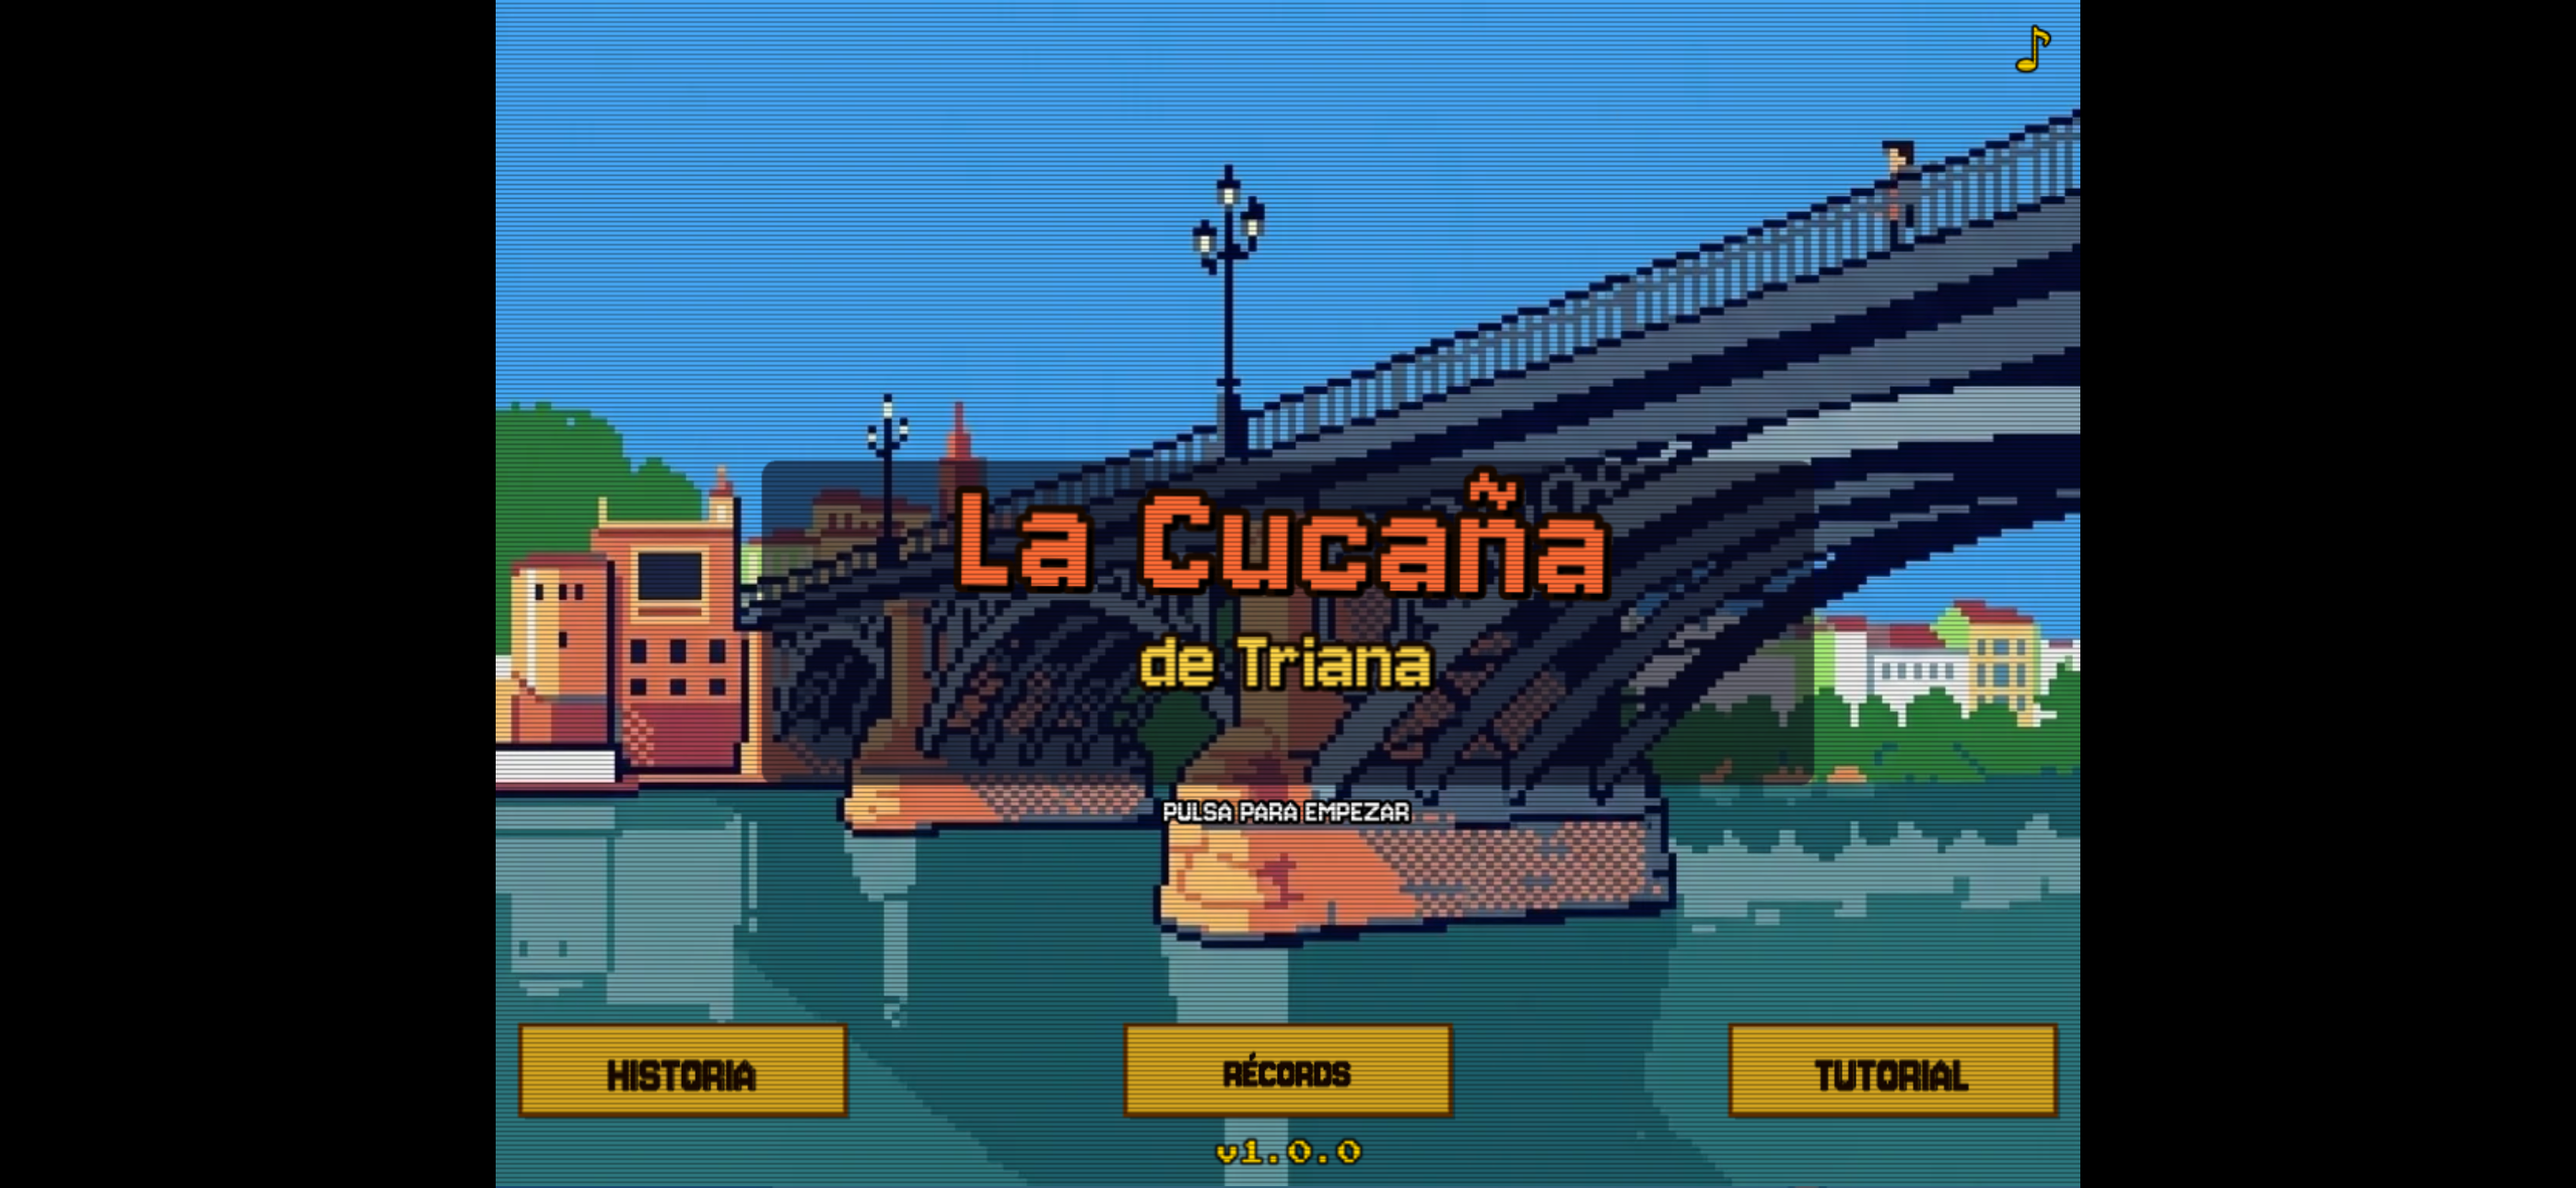
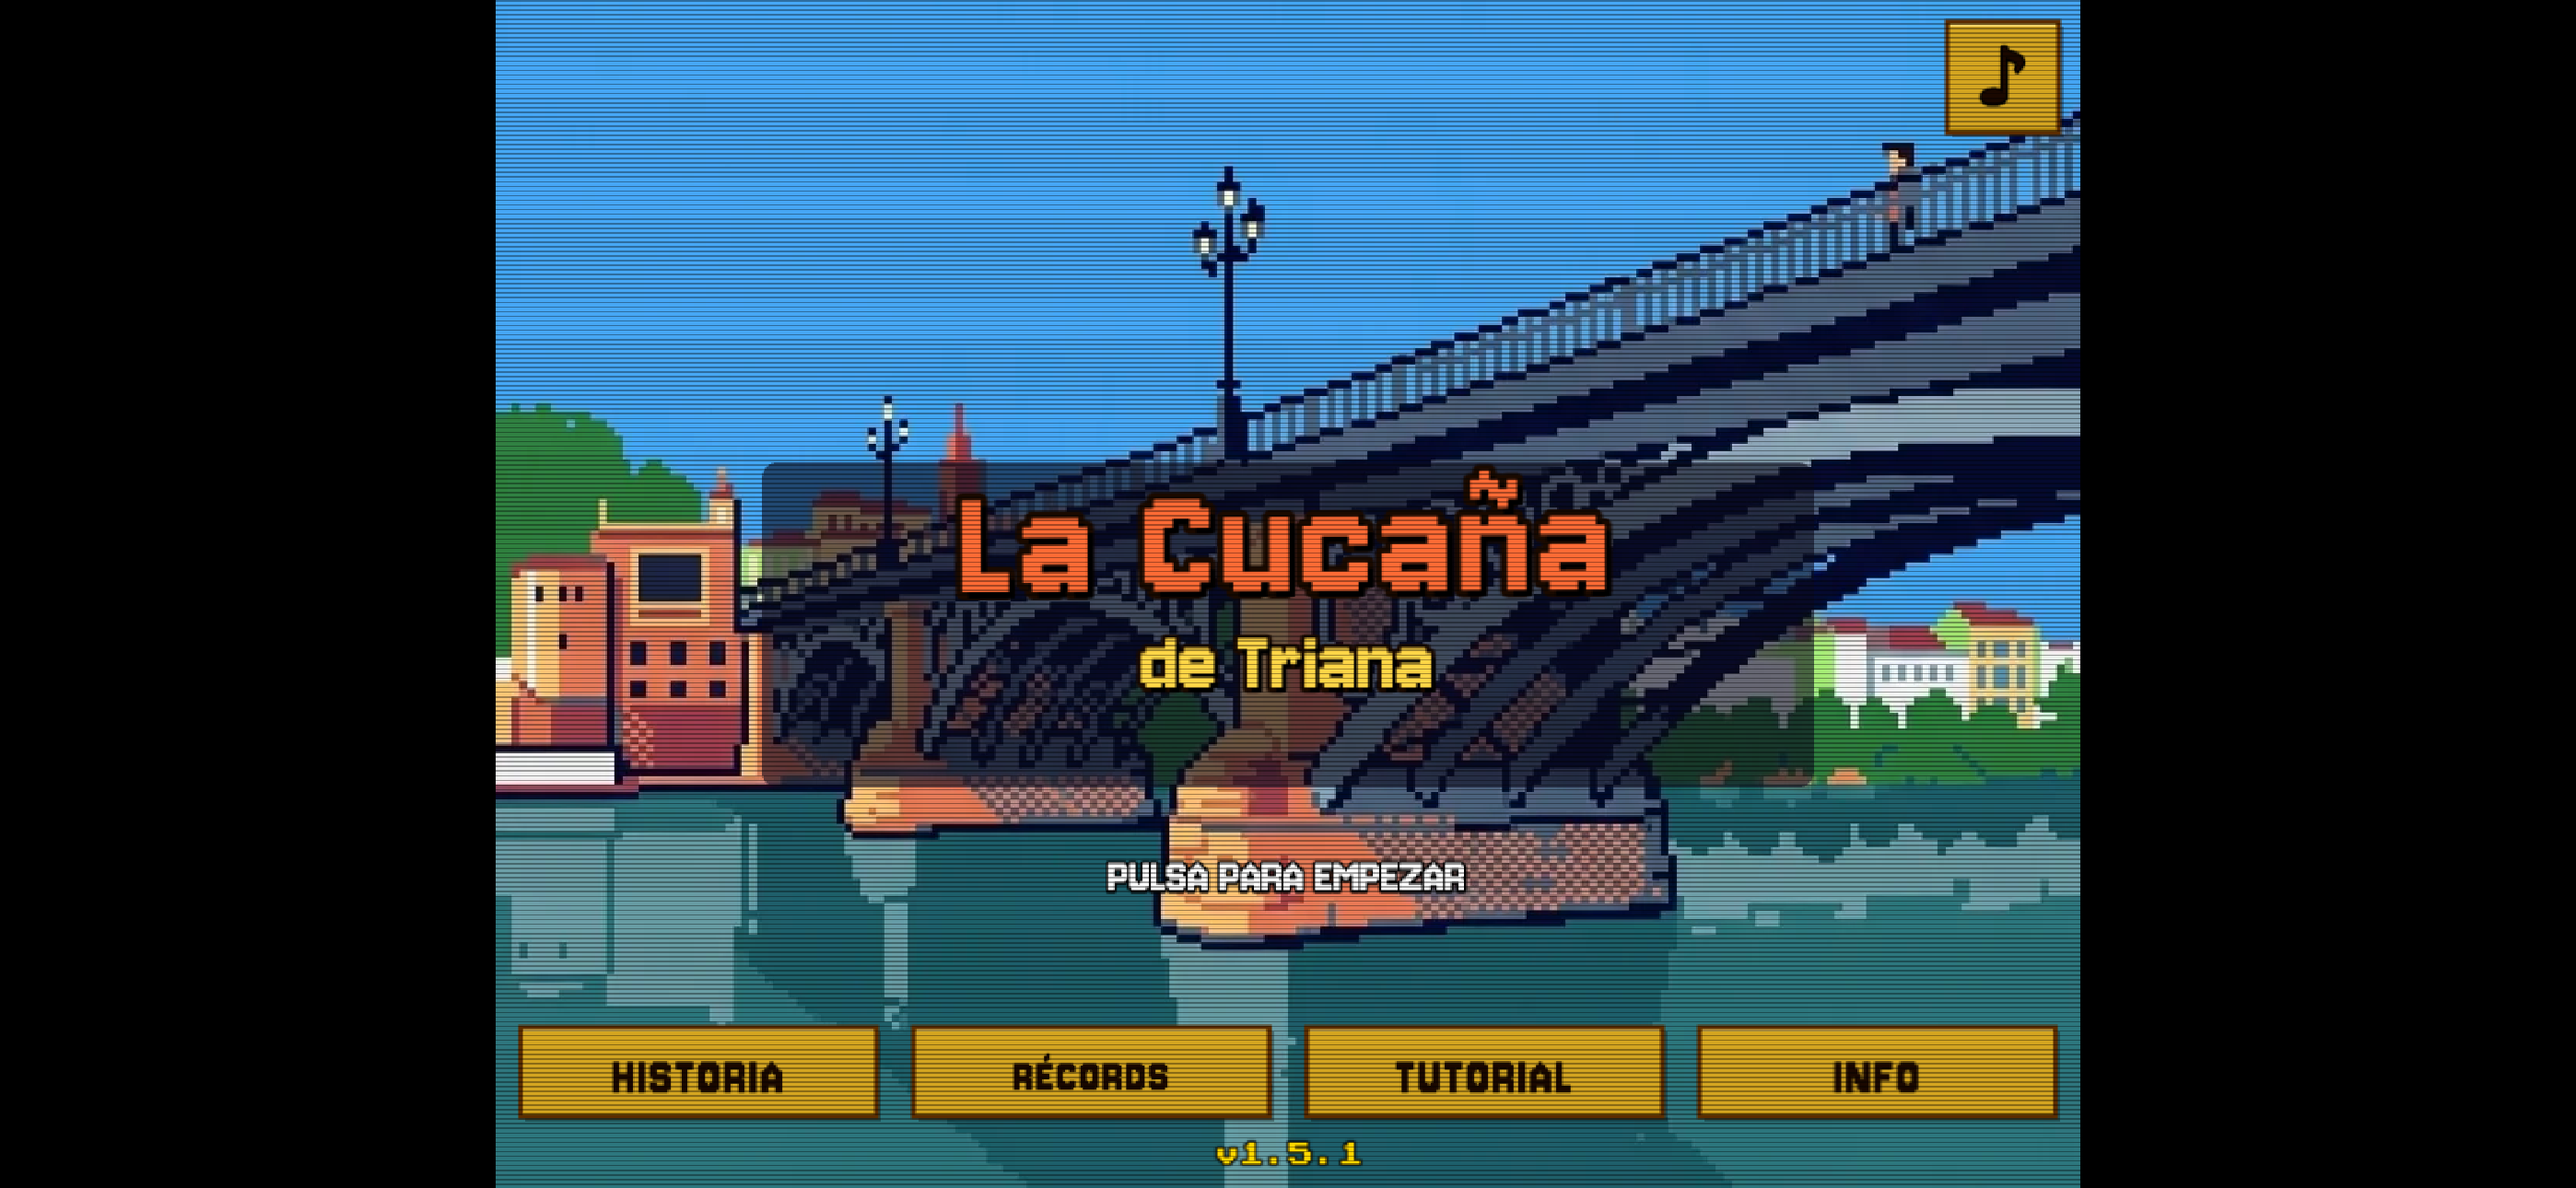
v1.5.2 — Refresh tutorial + store screenshots + App Privacy checklist (#62)
* chore(assets): refresh tutorial + store screenshots for App Store submit

Ship 1.5.2 with three App Store readiness deliverables:

- Tutorial images (public/assets/tutorial/01-06.webp) recaptured from
  the current v1.5.1 game state. Menu tile now shows the INFO button
  and v1.5.1 label. Gameplay tiles use the actual 2D HUD (grease
  indicator, NavButton style, red/blue balance buttons, updated
  balance bar). Directional arrows preserved on the same three tiles
  (impulso → cursor of the INTENTO bar; equilibrio → red/blue
  buttons; grasa → GRASA indicator). Same dimensions and WebP format
  so TutorialScene keeps loading them under tut-01…tut-06 without
  code changes.
- Store screenshots (public/assets/store/screenshots/{iphone-6.7,
  ipad-13,play-pwa}) fully replaced. New storyboard: 01-intro
  (menu), 02-juego (3D impulse), 03-seleccion (La Agüela solo,
  vecinos con alcohol ocultados por alpha), 04-premio (Pisacorbatas
  del Giraldillo — no brand risk), 05-equilibrio (3D balance).
  Sizes per platform: iPhone 6.7"/6.9" 2796x1290, iPad 13"
  2752x2064, Play/PWA 1920x1080. Old 05-tutorial.png removed in
  favour of 05-equilibrio.png.
- docs/app-store-privacy-checklist.md — answer sheet for the App
  Store Connect App Privacy section. Documents the Privacy Policy
  URL, the Diagnostics categories to declare (Crash Data + Other
  Diagnostic Data driven by Sentry), the App Functionality purpose,
  and why the app ends up as "Data Not Linked to You / No tracking".
[…]

diff --git a/public/sw.js b/public/sw.js
@@ -1,4 +1,4 @@
-const CACHE_NAME = 'cucana-v1.5.1'
+const CACHE_NAME = 'cucana-v1.5.2'
 
 const PRECACHE_URLS = [
   '/',

diff --git a/docs/app-store-privacy-checklist.md b/docs/app-store-privacy-checklist.md
@@ -1,0 +1,106 @@
+# App Privacy — hoja de respuestas para App Store Connect
+
+Documento operativo para rellenar la sección **App Privacy** de La Cucaña
+Trianera en App Store Connect. Basado en el estado del código a la 1.5.1 y en
+`PRIVACY.md`.
+
+Última revisión: 2026-07-09 (v1.5.1).
+
+## Dónde
+
+App Store Connect → tu app → sidebar **App Information → App Privacy** →
+**Get Started / Manage**.
+
+## Privacy Policy URL
+
+```
+https://minijuego-lilac.vercel.app/privacy.html
+```
+
+## Data Collection
+
+Pregunta inicial: **"Do you or your third-party partners collect data from
+this app?"** → **YES**.
+
+Motivo: Sentry envía crash reports a `sentry.io` cuando ocurre un error. Aunque
+no recoge datos personales identificables, "collect" en la definición de Apple
+incluye cualquier transmisión de datos a un servidor externo.
+
+### Categorías a MARCAR
+
+| Categoría   | Subtipo               | Marcar |
+| ----------- | --------------------- | ------ |
+| Diagnostics | Crash Data            | ✅     |
+| Diagnostics | Other Diagnostic Data | ✅     |
+
+### Todas las demás — NO marcar
+
+Contact Info · Health & Fitness · Financial Info · Location · Sensitive Info ·
+Contacts · User Content · Browsing History · Search History · Identifiers ·
+Purchases · Usage Data · Diagnostics → Performance Data · Other Data.
+
+## Detalle de cada tipo marcado
+
+Aplicar las **mismas 3 respuestas** a **Crash Data** y a **Other Diagnostic
+Data**:
+
+### 1. How is this data used? (Purposes)
+
+Marcar SOLO:
+
+- ✅ **App Functionality**
+
+NO marcar: Analytics · Developer's Advertising or Marketing · Third-Party
+Advertising · Product Personalization · Other Purposes.
+
+### 2. Is this data linked to the user's identity?
+
+- ✅ **No, [...] is not linked to the user's identity**
+
+Motivo: no hay login, ni user ID, ni email, ni identificador de dispositivo
+transmitido. La IP se procesa solo para anti-abuso y Sentry no la almacena de
+forma vinculable.
+
+### 3. Do you or your third-party partners use this data for tracking?
+
+- ✅ **No, we do not use this data for tracking purposes**
+
+Motivo: no se combina con datos de otras apps ni se comparte con data brokers.
+
+## Publish
+
+Guardar y publicar. Puedes editarlo tantas veces como quieras hasta enviar el
+binario a revisión (y también después, con submit nuevo).
+
+## Resultado en la ficha pública
+
+La sección "App Privacy" de la ficha mostrará:
+
+> **Data Not Linked to You**
+> The following data may be collected but it is not linked to your identity:
+>
+> - Diagnostics
+
+## Coherencia con PRIVACY.md
+
+`PRIVACY.md` sección 2 dice "no recoge datos personales identificables" →
+coincide con **Not Linked to You**.
+
+`PRIVACY.md` sección 4.1 detalla que Sentry recibe stack trace + user agent +
+versión + escena + IP no identificable → coincide con **Crash Data + Other
+Diagnostic Data · App Functionality · No linked · No tracking**.
+
+Si Apple revisa ambos, no hay contradicciones.
+
+## Si cambia el código en el futuro
+
+Antes de un nuevo submit revisar:
+
+- ¿Se ha añadido analytics (Google Analytics, Firebase, Amplitude)? → añadir
+  **Usage Data → Product Interaction** y purpose **Analytics**.
+- ¿Se ha añadido login/cuenta? → añadir **Contact Info** y **Identifiers**.
+- ¿Se ha añadido publicidad? → añadir **Usage Data → Advertising Data** con
+  purpose **Third-Party Advertising**.
+- ¿Se ha añadido compartir ubicación? → añadir **Location**.
+
+Nada de esto está previsto ahora mismo.

diff --git a/CHANGELOG.md b/CHANGELOG.md
@@ -7,6 +7,17 @@ y el proyecto se adhiere a [Versionado Semántico](https://semver.org/lang/es/).
 
 ## [Unreleased]
 
+## [1.5.2] — 2026-07-09
+
+### Added
+
+- **`docs/app-store-privacy-checklist.md`:** hoja de respuestas operativa para rellenar la sección **App Privacy** de App Store Connect. Documenta la Privacy Policy URL, qué categorías marcar (**Diagnostics → Crash Data** y **Other Diagnostic Data** por Sentry), qué purposes elegir (**App Functionality**) y por qué la app queda como "Data Not Linked to You / No tracking". Sirve de guía cuando se rellene el formulario en App Store Connect sin tener que redescubrir las respuestas cada vez.
+
+### Changed
+
+- **Imágenes del tutorial refrescadas con el estado actual de la 1.5.1** (`public/assets/tutorial/01-bienvenido.webp` … `06-listo.webp`): capturas nuevas del propio juego renderizado que muestran los componentes actuales — menú con botón INFO y versión 1.5.1, HUD de grasa con el nuevo look, botones NavButton estilo Cartelón de Feria, sprite del Trianero en el palo, botones rojo/azul de equilibrio y barra de balance actualizada. Las flechas indicativas se han redibujado sobre las nuevas capturas: **02-impulso** apunta al cursor de la barra INTENTO, **03-equilibrio** a los botones rojo (izq) y azul (der), **04-grasa** al indicador de grasa en la esquina superior izquierda. **01-bienvenido**, **05-salto** y **06-listo** no llevan flecha (igual que las originales). Dimensiones y formato conservados: 642×487 WebP para 01-05, 522×397 WebP para 06, así que ni el layout de `TutorialScene` ni el pipeline de assets necesitan cambios.
+- **Assets de tienda refrescados con la 1.5.1** (`public/assets/store/screenshots/`): capturas nuevas de la vista 3D (fase impulso y equilibrio) sustituyen a las de 1.0.0 pre-vista-3D. La selección de personaje muestra sólo el personaje central (La Agüela) para evitar los retratos con alcohol de los personajes vecinos. La pantalla de premio se genera con "Pisacorbatas del Giraldillo" en vez del vaso de Cruzcampo, para eliminar marcas comerciales/alcohol de la ficha de tienda (App Store Guideline 5.2 y clasificación 4+). Storyboard final por plataforma (5 tiles): `01-intro`, `02-juego` (3D impulso), `03-seleccion` (La Agüela), `04-premio` (Giraldillo), `05-equilibrio` (3D balance). Sets generados: iPhone 6.7"/6.9" a **2796×1290**, iPad 13" a **2752×2064**, Play/PWA a **1920×1080**. **Ojo:** el juego en sí todavía contiene retratos con alcohol (El Trianero, La Flamenca, El Guiri, Cuñaos) y premios con IP protegida (Cruzcampo, Cantores de Híspalis, Sugus, Maradona, Larry, etc.) — habrá que rediseñarlos antes del submit real.
+
 ## [1.5.1] — 2026-07-09
 
 ### Added
